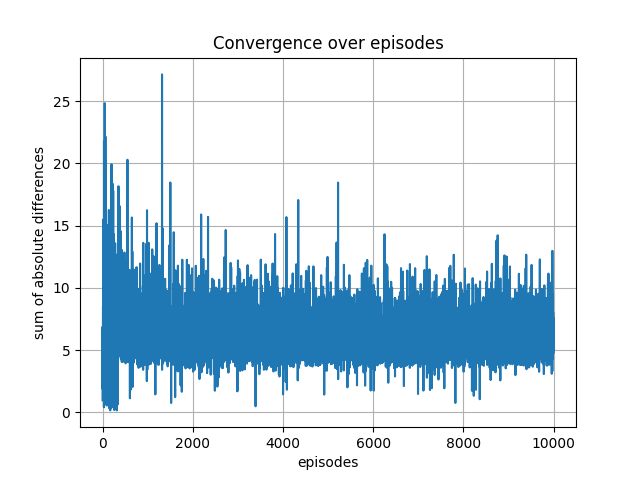
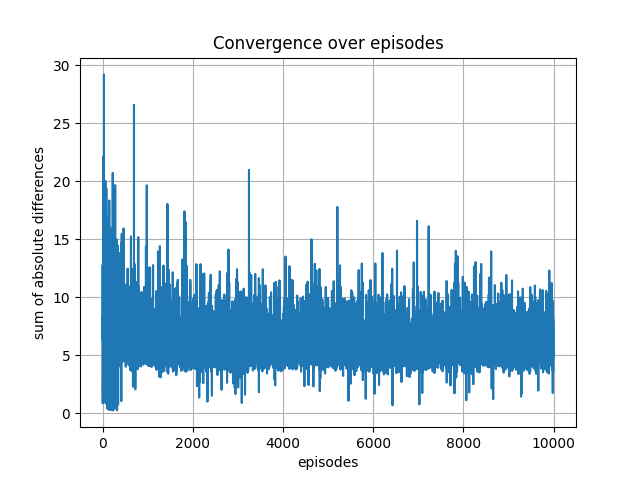
all sweep are done

diff --git a/hw3/hw3.py b/hw3/hw3.py
@@ -175,10 +175,10 @@ class MazeTD0(MazeEnvironment):  # Inherited from MazeEnvironment
 
 
 # Create an instance of the Maze with TD(0) and run multiple episodes
-maze = MazeEnvironment()
-maze_td0 = MazeTD0(maze, alpha=0.1, gamma=0.95, epsilon=0.2, episodes=10000)
-final_values = maze_td0.run_episodes()
-plot_policy(maze_td0.value_function_from_utility(), maze.maze, maze_td0.alpha, maze_td0.gamma, maze_td0.epsilon, maze_td0.episodes)
+# maze = MazeEnvironment()
+# maze_td0 = MazeTD0(maze, alpha=0.1, gamma=0.95, epsilon=0.2, episodes=10000)
+# final_values = maze_td0.run_episodes()
+# plot_policy(maze_td0.value_function_from_utility(), maze.maze, maze_td0.alpha, maze_td0.gamma, maze_td0.epsilon, maze_td0.episodes)
 ############ Q Learning ###################
 
 class MazeQLearning(MazeEnvironment):  # Inherited from MazeEnvironment
@@ -272,10 +272,10 @@ class MazeQLearning(MazeEnvironment):  # Inherited from MazeEnvironment
         return self.q_table
 
 
-maze = MazeEnvironment()# Use 0 = free space, 1 = obstacle, 2 = goal
-maze_q_learning = MazeQLearning(maze, alpha=0.1, gamma=0.95, epsilon=0.2, episodes=10000)
-q_table = maze_q_learning.run_episodes()
-plot_policy(maze_q_learning.value_function_from_q_table(), maze.maze, maze_q_learning.alpha, maze_q_learning.gamma, maze_q_learning.epsilon, maze_q_learning.episodes)
+# maze = MazeEnvironment()# Use 0 = free space, 1 = obstacle, 2 = goal
+# maze_q_learning = MazeQLearning(maze, alpha=0.1, gamma=0.95, epsilon=0.2, episodes=10000)
+# q_table = maze_q_learning.run_episodes()
+# plot_policy(maze_q_learning.value_function_from_q_table(), maze.maze, maze_q_learning.alpha, maze_q_learning.gamma, maze_q_learning.epsilon, maze_q_learning.episodes)
 
 # plot_value_function(value_function, maze.maze)
 # plot_policy(value_function, maze.maze)
@@ -317,17 +317,18 @@ parameters_epsilon_sweep = [{"alpha": 0.1, "gamma": 0.95, "epsilon": 0.0, "episo
 #     maze_td0 = MazeTD0(maze, alpha=parameters["alpha"], gamma=parameters["gamma"], epsilon=parameters["epsilon"], episodes=parameters["episodes"])
 #     final_values = maze_td0.run_episodes()
 
-# gamma sweep Q learning
-for parameters in parameters_gamma_sweep:
-    maze_q_learning = MazeQLearning(maze, alpha=parameters["alpha"], gamma=parameters["gamma"], epsilon=parameters["epsilon"], episodes=parameters["episodes"])
-    q_table = maze_q_learning.run_episodes()
+# # gamma sweep Q learning
+# for parameters in parameters_gamma_sweep:
+#     maze_q_learning = MazeQLearning(maze, alpha=parameters["alpha"], gamma=parameters["gamma"], epsilon=parameters["epsilon"], episodes=parameters["episodes"])
+#     q_table = maze_q_learning.run_episodes()
+maze = MazeEnvironment()
 
-# # epsilon sweep TD learning
+# epsilon sweep TD learning
 # for parameters in parameters_epsilon_sweep:
 #     maze_td0 = MazeTD0(maze, alpha=parameters["alpha"], gamma=parameters["gamma"], epsilon=parameters["epsilon"], episodes=parameters["episodes"])
 #     final_values = maze_td0.run_episodes()
 
-# # epsilon sweep Q learning
-# for parameters in parameters_epsilon_sweep:
-#     maze_q_learning = MazeQLearning(maze, alpha=parameters["alpha"], gamma=parameters["gamma"], epsilon=parameters["epsilon"], episodes=parameters["episodes"])
-#     q_table = maze_q_learning.run_episodes()
+# epsilon sweep Q learning
+for parameters in parameters_epsilon_sweep:
+    maze_q_learning = MazeQLearning(maze, alpha=parameters["alpha"], gamma=parameters["gamma"], epsilon=parameters["epsilon"], episodes=parameters["episodes"])
+    q_table = maze_q_learning.run_episodes()
